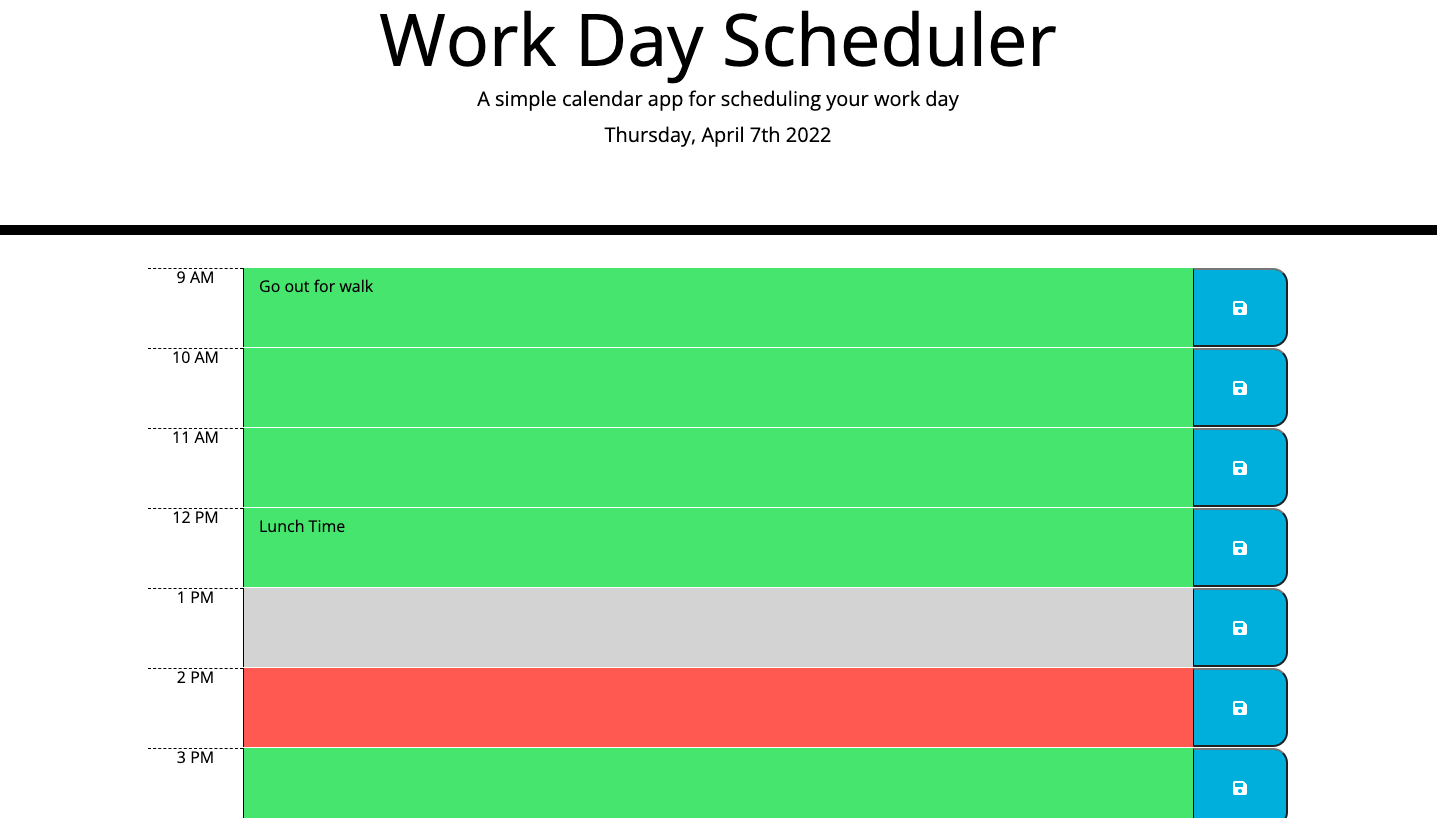
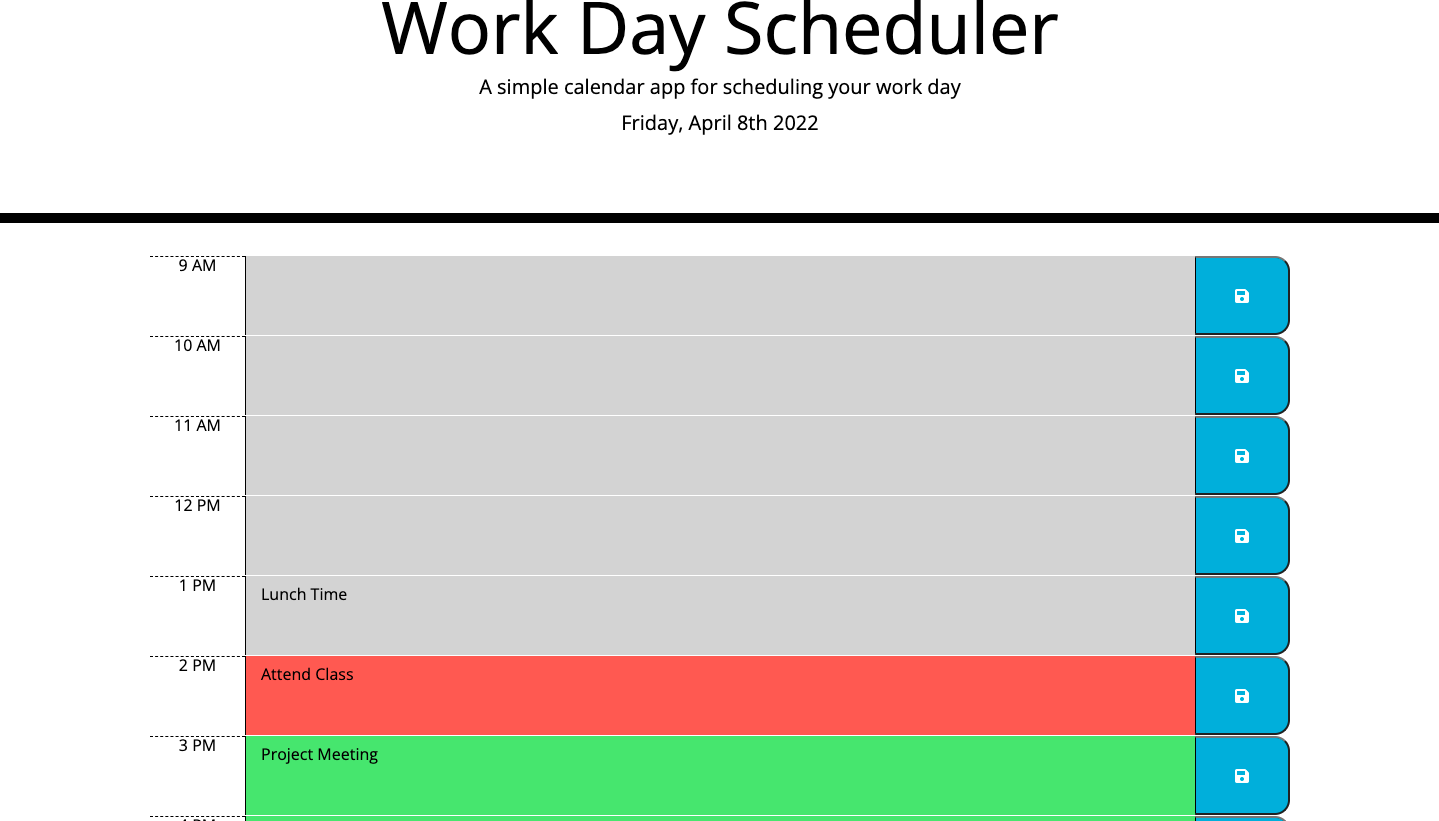
fix minor bug

diff --git a/assets/script/script.js b/assets/script/script.js
@@ -16,9 +16,9 @@ function timeBlockColor() {
 
   $(".hour").each(function () {
     var time = $(this).text();
-    var splitTime = time.split();
+    var splitTime = time.split(" ");
     var blockTime = parseInt(splitTime[0]);
-    if (splitTime[1] == 'PM') {
+    if (splitTime[1] == 'PM' && splitTime[0] !== "12") {
       blockTime = blockTime + 12;
     }
     if (blockTime > currentHour) {

diff --git a/README.md b/README.md
@@ -24,9 +24,9 @@ function timeBlockColor() {
   var currentHour = moment().hour();
   $(".hour").each(function () {
     var time = $(this).text();
-    var splitTime = time.split();
+    var splitTime = time.split(" ");
     var blockTime = parseInt(splitTime[0]);
-    if (splitTime[1] == 'PM') {
+    if (splitTime[1] == 'PM' && splitTime[0] !=="12"){
       blockTime = blockTime + 12;
     }
     if (blockTime > currentHour) {
